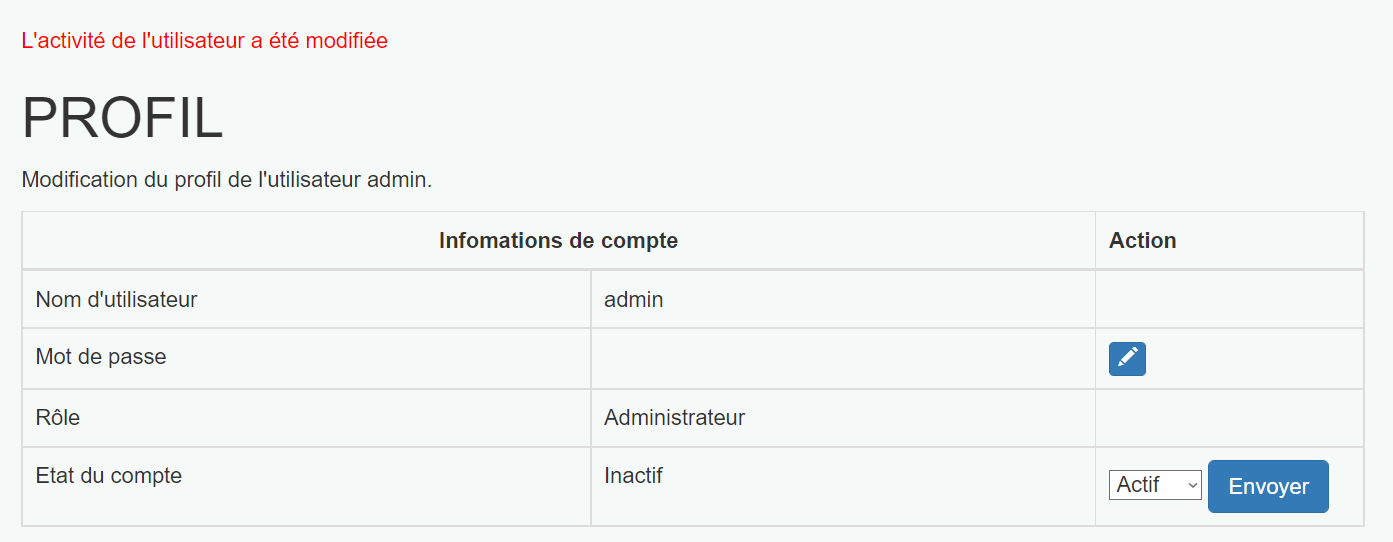
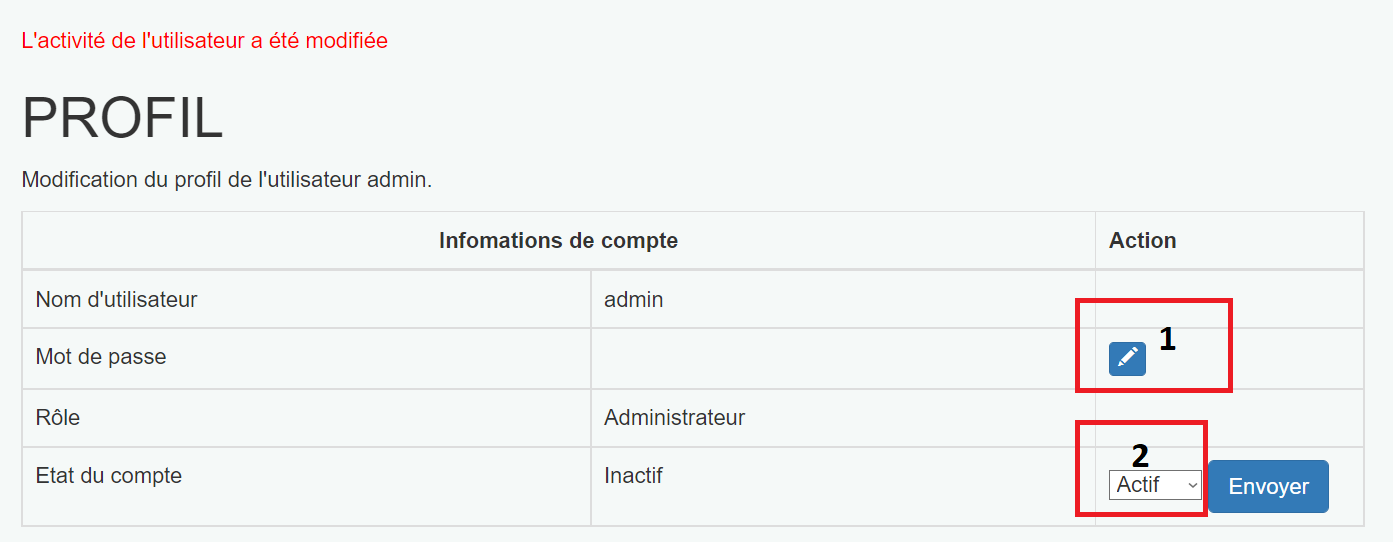
Update documentation + role display + add validity check

Changed region(s): [[0.7717, 0.5314, 0.8952, 0.738], [0.7717, 0.7675, 0.8643, 0.9742]]

diff --git a/site/html/modele/modele_user.php b/site/html/modele/modele_user.php
@@ -129,6 +129,9 @@ function checkLogin($postArray)
     $passwdPost = $postArray["fPasswd"];
     $resultats = getUserByLogin($username);
     $resultats = $resultats->fetch();
+    if ($resultats['isValid'] == 0) {
+        throw new Exception("Le compte est inactif");
+    }
     if (empty($resultats['name'])) {
         throw new Exception("Les données d'authentification sont incorrectes");
     }

diff --git a/site/html/vue/administration/vue_select_role.php b/site/html/vue/administration/vue_select_role.php
@@ -8,6 +8,7 @@
     <option type ="hidden" value="NO_VALUE" selected></option>
     <?php
     foreach (range(1, 2) as $number) {
-        ?>  <option value="<?php echo $number?>"><?php echo $number?></option>
+        ?>  <option value="<?php echo $number?>"><?php echo $number == 1 ?
+                "Administrateur" : "Collaborateur";?></option>
     <?php } ?>
 </select>

diff --git a/README.md b/README.md
@@ -25,9 +25,11 @@ Le répertoire "html" contient :
 
 Le mot de passe pour phpliteadmin est "admin".
 
+
+
 ## Présentation du site
 
-
+## Inbox
 
 Après s'être connecté, un utilisateur peut aller sur InBox pour afficher la liste des messages. Ceux-ci seront triés par date de réception. Tout à droite, dans l'encadré rouge, trois boutons permettent de :
 
@@ -37,13 +39,34 @@ Après s'être connecté, un utilisateur peut aller sur InBox pour afficher la l
 
 3) Ecrire une réponse
 
-![menu](doc/assets/menu.PNG)
-
-
+![menu](doc\assets\menu.PNG)
 
 En cliquant sur le bouton Profil, l'utilisateur pourra modifié son profil.
 
 
+
+## Administration
+
+### Page d'administration
+
+Un administrateur peut gérer les utilisateurs et modifier leur profil. 
+
+- L'onglet "Administration", en rouge, permet d'accéder à cette page. 
+
+- Dans l'encadré vert se trouve les boutons permettant de supprimer et de modifier le profil.
+- Dans l'encadré mauve, l'administrateur peut modifier le rôle de l'utilisateur
+
+![page-administration-2](doc\assets\page-administration-2.PNG)
+
+## Page de profil
+
+Une fois que l'administrateur a accéder au profil de l'utilisateur, il peut :
+
+1) Modifier le mot de passe (encadré n°1)
+
+2) Modifier l'activité du compte (encadré n°2)
+
+![profil-admin](doc\assets\profil-admin.png)
 
 ## Source 
 
